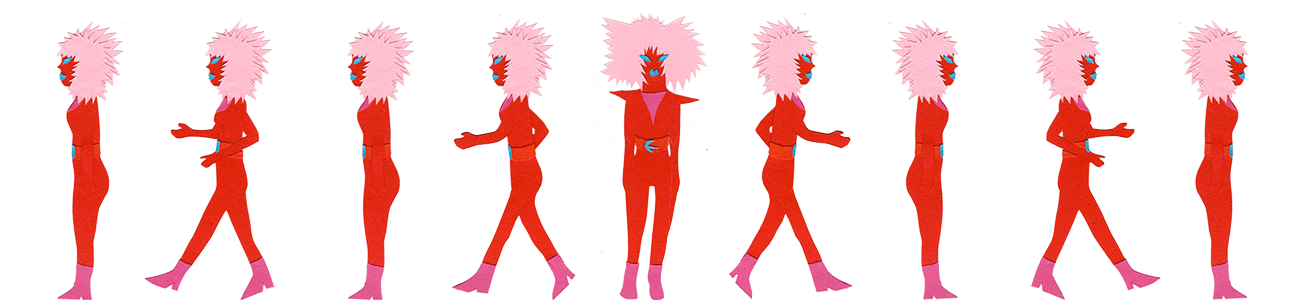
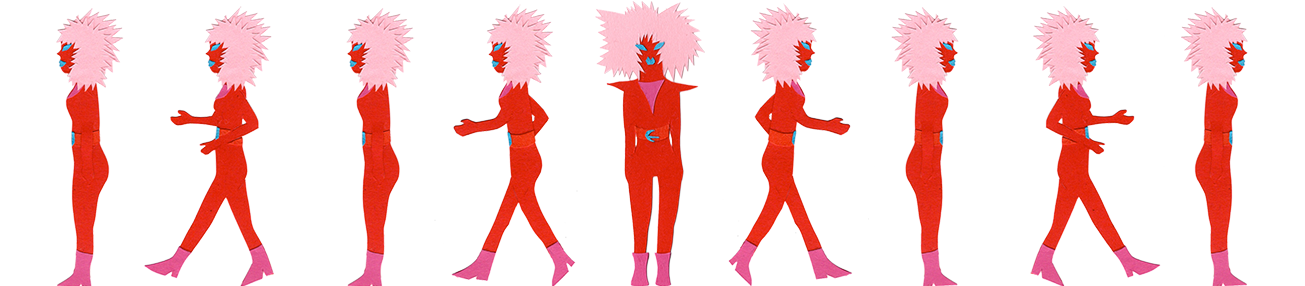
replaced some assets and updated readme with start script

diff --git a/src/scenes/Scene1.js b/src/scenes/Scene1.js
@@ -16,7 +16,7 @@ export default class Scene1 extends Phaser.Scene {
       //sprites 
       this.load.image('ground', 'assets/ground.png');
       //player
-      this.load.spritesheet('lady', 'assets/lady.png', { frameWidth: 145, frameHeight: 300 });
+      this.load.spritesheet('lady', 'assets/lady.png', { frameWidth: 145, frameHeight: 286 });
     }
 
[1 lines of base64/hex data omitted]
@@ -52,7 +52,7 @@ export default class Scene1 extends Phaser.Scene {
 
       //ground
       this.groundGroup = this.physics.add.staticGroup({classType: Ground}); 
-      this.groundGroup.create(400, 750, 'ground').refreshBody();
+      this.groundGroup.create(400, 850, 'ground').refreshBody();
 
       //collisions
       this.physics.add.collider(this.player, this.groundGroup);

diff --git a/README.md b/README.md
@@ -1,3 +1,7 @@
 # dream
 
 A game experiment with [Somer Stampley](https://www.instagram.com/shesonlydreaming/)
+
+## how to run
+
+`npm start`
